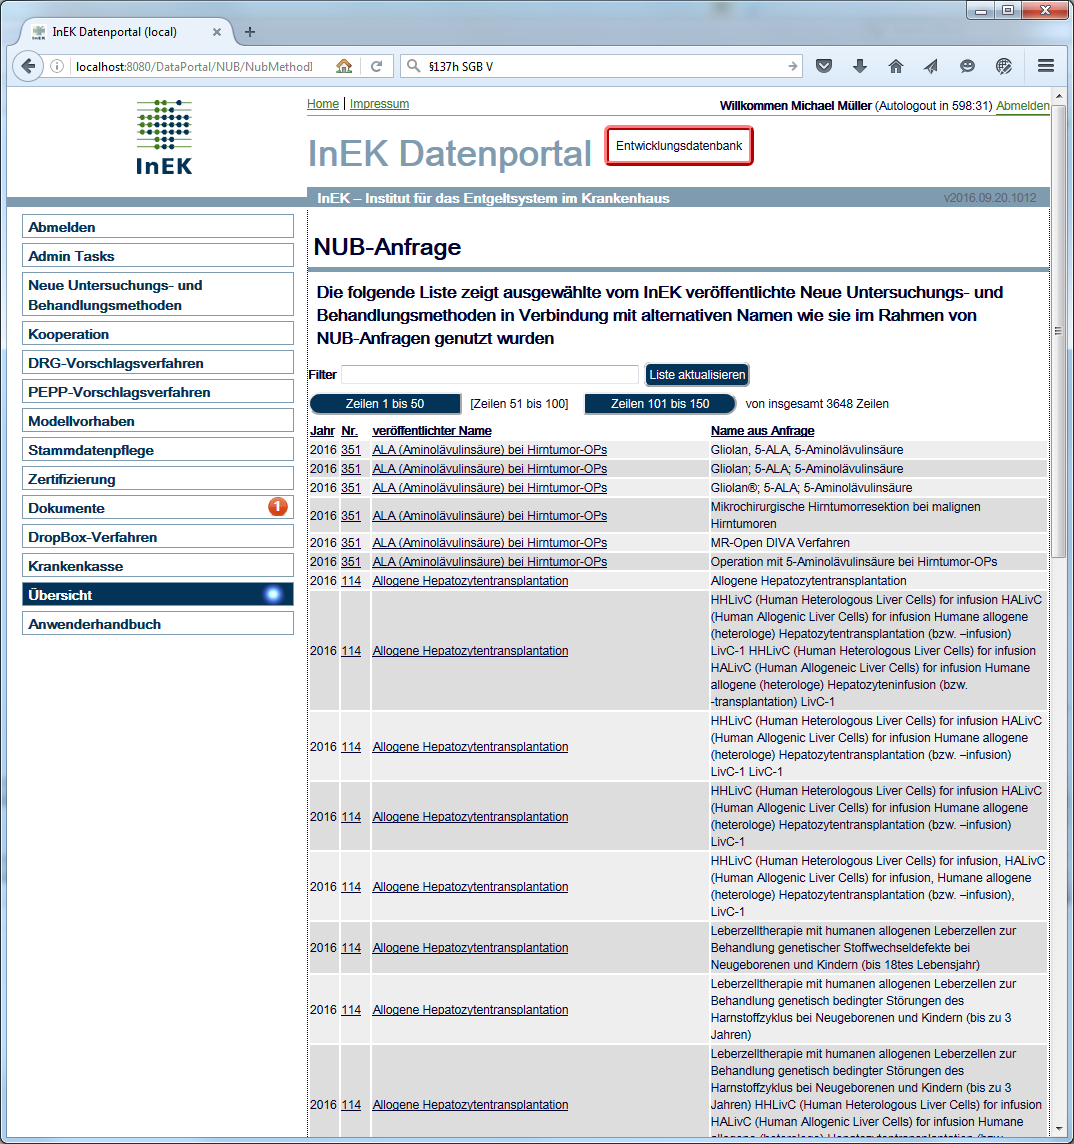
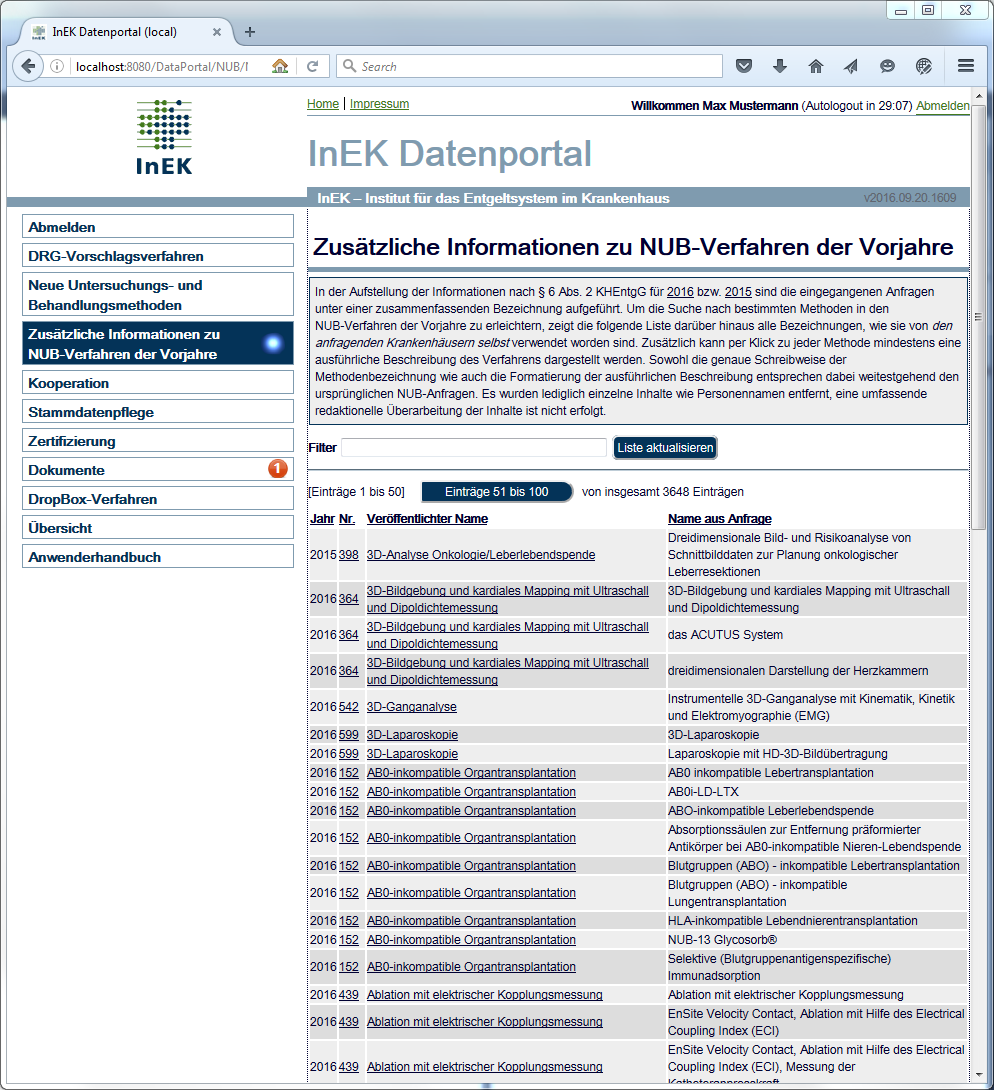
user manual and wording

diff --git a/DataPortal/src/main/java/org/inek/dataportal/feature/nub/NubController.java b/DataPortal/src/main/java/org/inek/dataportal/feature/nub/NubController.java
@@ -28,6 +28,7 @@ public class NubController extends AbstractFeatureController {
     @Override
     protected void addTopics(Topics topics) {
         topics.addTopic(getMsg().getString("lblNUB"), Pages.NubSummary.URL());
+        topics.addTopic(getMsg().getString("lblNubMethodInfo"), Pages.NubMethodInfo.URL());
     }
 
     @Override
